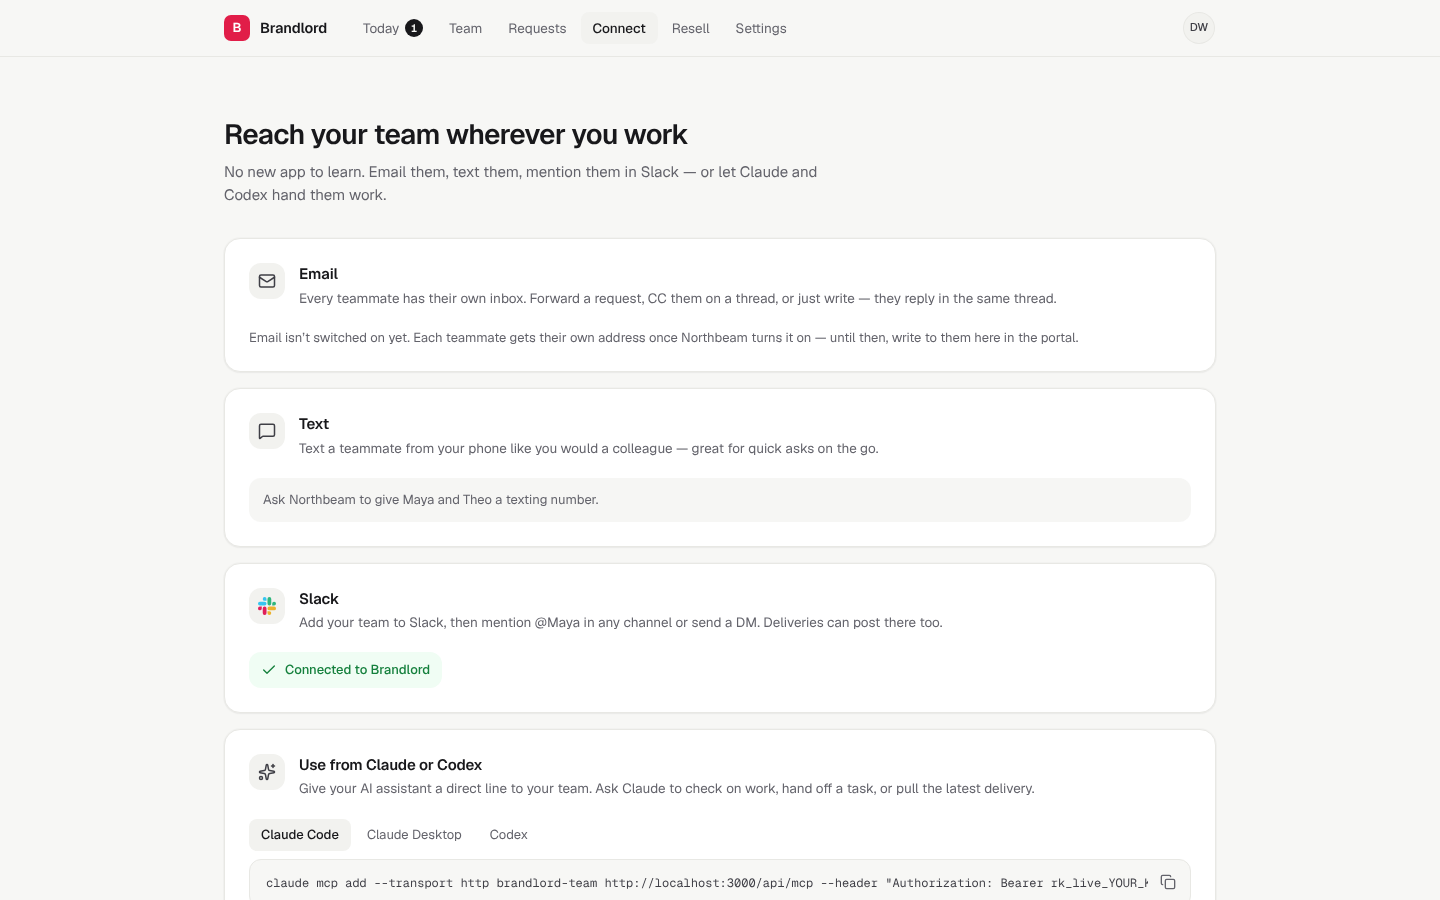
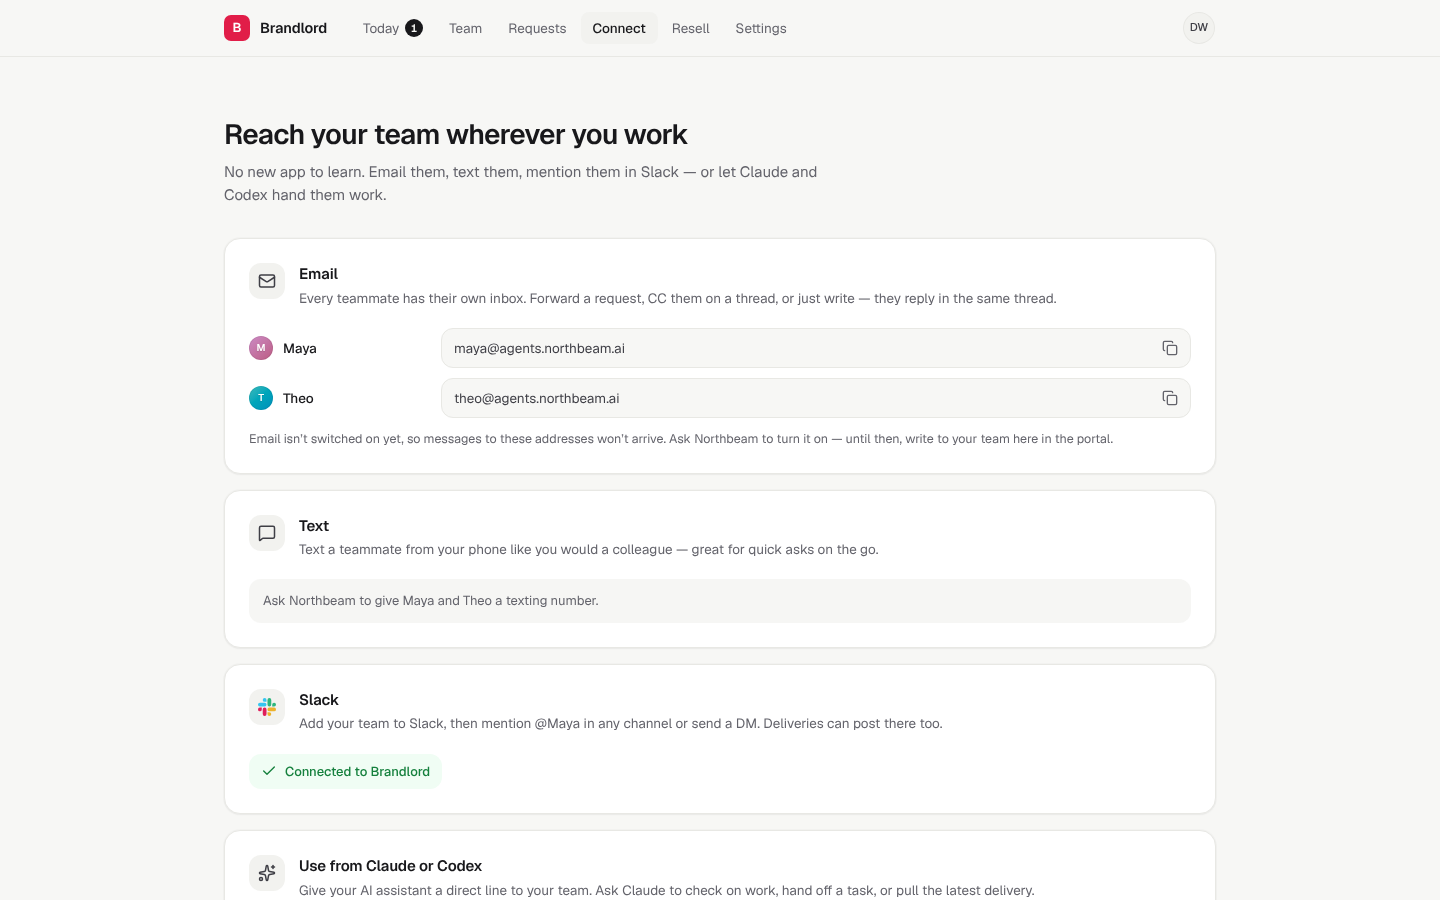
Architect: finds every pain, puts the explicit ask first, honors Industry, abbreviation-safe rules, real hour estimates, no markup words for clients
Claude-Session: https://claude.ai/code/session_01R829g3cx373VGQG4xJfwq5

diff --git a/src/server/queries/portal.ts b/src/server/queries/portal.ts
@@ -376,7 +376,9 @@ async function getDeliverableUncached(orgId: string, id: string) {
     link && typeof link.payload?.to === "string"
       ? (link.payload.to as string).slice(0, 200)
       : null;
+  const sends = await draftSends(orgId, d.data ?? null);
   return {
+    sends,
     sendsOnApprove: link?.status === "pending",
     sendTo:
       link && (link.status === "pending" || link.status === "approved")
@@ -398,6 +400,100 @@ async function getDeliverableUncached(orgId: string, id: string) {
     agent: row.agent as AgentLite,
     workflowName: row.workflowName,
   };
+}
+
+/** A draft the team sent (or held) when this deliverable was approved. Status is plain-language-ready. */
+export type DraftSend = {
+  to: string;
+  channel: ChannelKind;
+  status: "sent" | "sending" | "not_sent" | "failed" | "held";
+};
+
+/** Maps a recorded outbound message to what the client is told. A simulated send is never called "Sent". */
+export function draftSendStatus(
+  m: { deliveryStatus: string; simulated?: unknown } | undefined,
+): DraftSend["status"] {
+  if (!m) return "sending";
+  if (m.deliveryStatus === "failed") return "failed";
+  if (m.deliveryStatus === "sent" || m.deliveryStatus === "delivered")
+    return m.simulated ? "not_sent" : "sent";
+  return "sending";
+}
+
+function draftList<K extends string>(
+  v: unknown,
+  key: K,
+): Array<{ to: string } & Record<K, string>> {
+  if (!Array.isArray(v)) return [];
+  return v
+    .filter(
+      (x): x is { to: string } & Record<K, string> =>
+        !!x &&
+        typeof x === "object" &&
+        typeof (x as Record<string, unknown>).to === "string" &&
+        typeof (x as Record<string, unknown>)[key] === "string",
+    )
+    .slice(0, 20);
+}
+
+/** Sends recorded by the engine on approval (data.sentDrafts / data.heldDrafts), with live status, org-scoped. */
+async function draftSends(
+  orgId: string,
+  data: Record<string, unknown> | null,
+): Promise<DraftSend[]> {
+  const sent = draftList(data?.sentDrafts, "messageId").filter((x) =>
+    isUuid(x.messageId),
+  );
+  const held = draftList(data?.heldDrafts, "reason");
+  const rows = sent.length
+    ? await db()
+        .select({
+          id: schema.messages.id,
+          deliveryStatus: schema.messages.deliveryStatus,
+          meta: schema.messages.meta,
+          channel: schema.conversations.channel,
+        })
+        .from(schema.messages)
+        .innerJoin(
+          schema.conversations,
+          and(
+            eq(schema.conversations.id, schema.messages.conversationId),
+            eq(schema.conversations.orgId, orgId),
+          ),
+        )
+        .where(
+          and(
+            eq(schema.messages.orgId, orgId),
+            inArray(
+              schema.messages.id,
+              sent.map((x) => x.messageId),
+            ),
+          ),
+        )
+    : [];
+  const byId = new Map(rows.map((r) => [r.id, r]));
+  return [
+    ...sent.map((x): DraftSend => {
+      const m = byId.get(x.messageId);
+      return {
+        to: x.to.slice(0, 200),
+        channel: m?.channel ?? "email",
+        status: draftSendStatus(
+          m && {
+            deliveryStatus: m.deliveryStatus,
+            simulated: (m.meta as Record<string, unknown> | null)?.simulated,
+          },
+        ),
+      };
+    }),
+    ...held.map(
+      (x): DraftSend => ({
+        to: x.to.slice(0, 200),
+        channel: "email",
+        status: "held",
+      }),
+    ),
+  ];
 }
 
 /** The next piece of work waiting on the client, so review can flow item to item. */

diff --git a/src/app/p/[org]/d/[id]/page.tsx b/src/app/p/[org]/d/[id]/page.tsx
@@ -64,6 +64,18 @@ async function markSeen(orgId: string, deliverableId: string, userId: string) {
   }
 }
 
+/** What the client is told about each send. Plain language; a send that didn't leave is never "Sent". */
+const SEND_STATUS: Record<
+  "sent" | "sending" | "not_sent" | "failed" | "held",
+  string
+> = {
+  sent: "Sent",
+  sending: "Sending",
+  not_sent: "Not sent: email isn’t switched on yet",
+  failed: "Didn’t go through",
+  held: "Not sent: held because it quoted an internal note",
+};
+
 export default async function DeliverablePage({
   params,
 }: {
@@ -109,6 +121,44 @@ export default async function DeliverablePage({
           ))}
         </dd>
       </div>
+      {d.sends.length ? (
+        <div className="col-span-2 md:col-span-1">
+          <dt className="text-ink-3">
+            {d.sends.length === 1 ? "Recipient" : "Recipients"}
+          </dt>
+          <dd className="mt-1">
+            <ul className="space-y-2">
+              {d.sends.map((x, i) => (
+                <li key={`${x.to}-${i}`} className="min-w-0">
+                  <span className="flex min-w-0 items-center gap-1.5 text-ink-2">
+                    <ChannelIcon
+                      channel={x.channel}
+                      className="shrink-0 text-ink-3"
+                    />
+                    <span className="sr-only">
+                      {CHANNEL_LABEL[x.channel] ?? x.channel}:
+                    </span>
+                    <span className="truncate" title={x.to}>
+                      {x.to}
+                    </span>
+                  </span>
+                  <span
+                    className={
+                      x.status === "sent"
+                        ? "mt-0.5 block text-[12.5px] text-good"
+                        : x.status === "failed" || x.status === "held"
+                          ? "mt-0.5 block text-[12.5px] text-warn"
+                          : "mt-0.5 block text-[12.5px] text-ink-3"
+                    }
+                  >
+                    {SEND_STATUS[x.status]}
+                  </span>
+                </li>
+              ))}
+            </ul>
+          </dd>
+        </div>
+      ) : null}
       {d.hoursSaved > 0 ? (
         <div>
           <dt className="text-ink-3">Time saved</dt>

diff --git a/tests/portal.lib.test.ts b/tests/portal.lib.test.ts
@@ -12,7 +12,12 @@ import {
   contrast,
   readableOn,
 } from "@/components/portal/brand-color";
-import { clientSafeText, resolveBrand } from "@/server/queries/portal";
+import {
+  clientSafeText,
+  deliverableDomain,
+  draftSendStatus,
+  resolveBrand,
+} from "@/server/queries/portal";
 import type { Org } from "@/server/auth/access";
 
 describe("portal: plain-English schedules", () => {
@@ -174,5 +179,26 @@ describe("clientSafeText", () => {
     expect(clientSafeText("Turns briefs into social packs. Drafted offline from the transcript (no AI model was used) — review every workflow before hiring.")).toBe("Turns briefs into social packs.");
     expect(clientSafeText("Answers the phones.")).toBe("Answers the phones.");
     expect(clientSafeText(null)).toBeNull();
+  });
+});
+
+describe("draft send status (client wording)", () => {
+  it("never calls a simulated send sent", () => {
+    expect(draftSendStatus({ deliveryStatus: "sent", simulated: true })).toBe("not_sent");
+    expect(draftSendStatus({ deliveryStatus: "sent" })).toBe("sent");
+    expect(draftSendStatus({ deliveryStatus: "delivered" })).toBe("sent");
+    expect(draftSendStatus({ deliveryStatus: "pending" })).toBe("sending");
+    expect(draftSendStatus({ deliveryStatus: "failed" })).toBe("failed");
+    expect(draftSendStatus(undefined)).toBe("sending");
+  });
+});
+
+describe("agent address domains", () => {
+  it("hides reserved dev domains, keeps real ones", () => {
+    expect(deliverableDomain("agents.roster.local")).toBe(false);
+    expect(deliverableDomain("mail.localhost")).toBe(false);
+    expect(deliverableDomain("team.example")).toBe(false);
+    expect(deliverableDomain("team.northbeam.ai")).toBe(true);
+    expect(deliverableDomain("agents.brandlord.co")).toBe(true);
   });
 });

diff --git a/src/components/portal/review-panel.tsx b/src/components/portal/review-panel.tsx
@@ -78,7 +78,7 @@ export function ReviewPanel({
           <span>
             Approved.
             <span className="mt-1 block font-normal text-ink-3">
-              {sendTo} gets it once email is connected.
+              Nothing was emailed to {sendTo}: email isn’t switched on yet.
             </span>
           </span>
         ) : sent ? (
